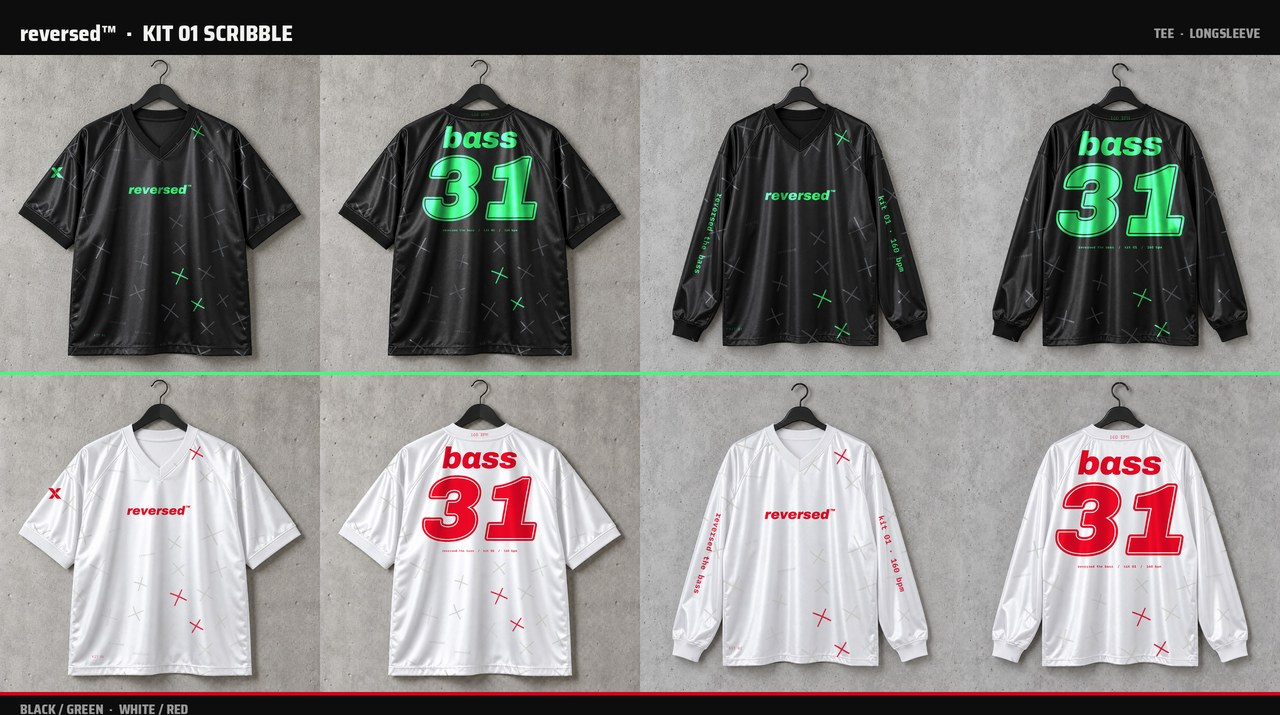
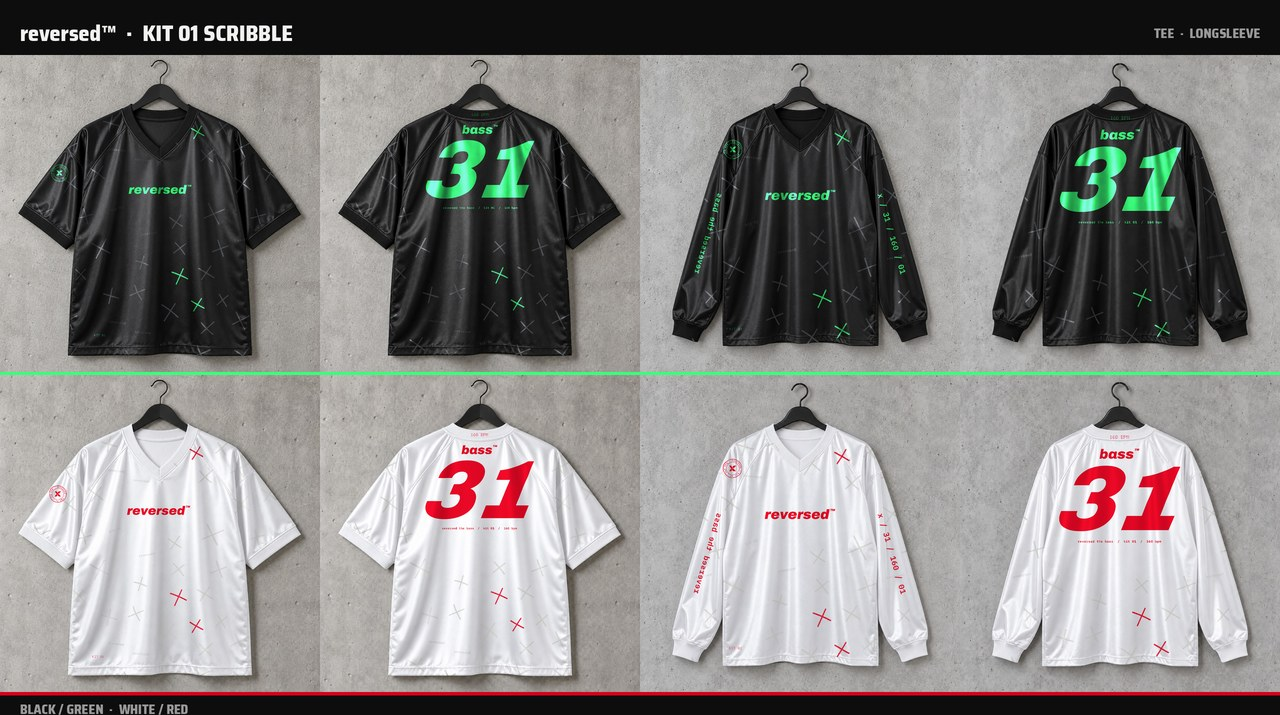
Rug: bass™ in exact het front-wordmark, schuiner solide 31, mouwbadge, abstracte mouwtekst longsleeve
Claude-Session: https://claude.ai/code/session_01Q3Vwcqa7EM4c5jqGE1QtzN

diff --git a/tools/set12.py b/tools/set12.py
@@ -1,0 +1,47 @@
+import sys, re, cairosvg, numpy as np, cv2
+S='/tmp/claude-0/-home-claude/e73f4353-fe82-5241-899e-a18cfe95ce4f/scratchpad'; OUT='/home/claude/merch/studio/art'
+sys.path.insert(0,S+'/scripts')
+from typo import *
+FN=S+'/npm/node_modules/@fontsource/'
+ARCH=FN+'archivo/files/archivo-latin-900-italic.woff2'
+ACC={'green':'#39FF7A','red':'#D6001C'}
+def save(name,d,w,h,extra=''):
+    for cw,hx in ACC.items():
+        sv=f'<svg xmlns="http://www.w3.org/2000/svg" width="{w:.1f}mm" height="{h:.1f}mm" viewBox="0 0 {w:.1f} {h:.1f}"><path d="{d}" fill="{hx}"{extra}/></svg>'
+        open(f'{OUT}/{name}_{cw}.svg','w').write(sv)
+        cairosvg.svg2png(bytestring=sv.encode(),write_to=f'{OUT}/{name}_{cw}.png',output_width=3000)
+# back name: exactly the front wordmark recipe (Archivo 900 italic, size 100, TM at 38) -> 'bass™'
+d,w=text_path('bass',ARCH,100,0,100); tm,tw=text_path('™',ARCH,38,w+4,52)
+save('k4_bass',d+' '+tm,round(w+tw+8),128)
+# number: same face, extra slant (skewX -14), solid, no outline
+d,w=text_path('31',ARCH,300,0,300,tracking=0.03)
+def ink_bbox(body,W,H):
+    sv=f'<svg xmlns="http://www.w3.org/2000/svg" width="{W}" height="{H}" viewBox="0 0 {W} {H}">{body}</svg>'
+    im=cv2.imdecode(np.frombuffer(cairosvg.svg2png(bytestring=sv.encode()),np.uint8),cv2.IMREAD_UNCHANGED)[:,:,3]
+    ys,xs=np.where(im>0); return xs.min(),xs.max(),ys.min(),ys.max()
+def save_g(name,body,W,H,pad=2):
+    x0,x1,y0,y1=ink_bbox(body.replace('FILL','#000'),W,H)
+    w,h=x1-x0+2*pad,y1-y0+2*pad
+    for cw,hx in ACC.items():
+        sv=f'<svg xmlns="http://www.w3.org/2000/svg" width="{w/4:.1f}mm" height="{h/4:.1f}mm" viewBox="{x0-pad} {y0-pad} {w} {h}">{body.replace("FILL",hx)}</svg>'
+        open(f'{OUT}/{name}_{cw}.svg','w').write(sv)
+        cairosvg.svg2png(bytestring=sv.encode(),write_to=f'{OUT}/{name}_{cw}.png',output_width=3000)
+d,w=text_path('31',ARCH,300,140,330,tracking=0.03)
+save_g('k4_num31',f'<g transform="skewX(-13)"><path d="{d}" fill="FILL"/></g>',int(w+320),380)
+# sleeve badge: ring of mono text around X monogram
+MONO6=FN+'ibm-plex-mono/files/ibm-plex-mono-latin-600-normal.woff2'
+xm=open(S+'/el3/x_monogram_v2.svg').read(); vb,xb=inner(xm)
+import math
+R=100; parts=[f'<circle cx="120" cy="120" r="{R+12}" fill="none" stroke="FILL" stroke-width="5"/>',f'<circle cx="120" cy="120" r="{R-22}" fill="none" stroke="FILL" stroke-width="3"/>']
+txt='REVERSED · KIT 01 · 160 BPM · '
+n=len(txt)
+for i,ch in enumerate(txt):
+    if ch==' ': continue
+    ang=-90+360*i/n
+    dch,cw=text_path(ch,MONO6,22,0,0,anchor='middle')
+    x=120+ (R-5)*math.cos(math.radians(ang)); y=120+(R-5)*math.sin(math.radians(ang))
+    parts.append(f'<g transform="translate({x:.2f},{y:.2f}) rotate({ang+90:.2f}) translate(0,8)"><path d="{dch}" fill="FILL"/></g>')
+xb2=re.sub(r'fill="[^"]*"','',xb)
+parts.append(f'<svg x="78" y="83" width="84" height="74" viewBox="{vb}"><g fill="FILL">{xb2}</g></svg>')
+save_g('k4_badge',''.join(parts),240,240)
+print('ok')

diff --git a/tools/pattern9.py b/tools/pattern9.py
@@ -130,15 +130,22 @@ for col,(tone,acc) in T.items():
     ph=f'blanks3/gl_{col}_front'; c=json.load(open(f'{ST}/{ph}.json')); W,H=c['w'],c['h']; ppc=c['pxPerCm']
     a=cv2.imread(f'{ST}/{ph}_map.png',cv2.IMREAD_UNCHANGED)[:,:,3]
     out=[]
-    for txt,side_ in (('reversed the bass','L'),('kit 01 · 160 bpm','R')):
+    for txt,side_ in (('reversed the bass','L'),('x / 31 / 160 / 01','R')):
         ys=np.arange(420,960,10); pts=[]
         for y in ys:
             xs=np.where(a[y]>128)[0]; pts.append((xs.min()+58) if side_=='L' else (xs.max()-58))
         k,b=np.polyfit(ys,pts,1)   # x = k*y + b
         yc=700; xc=k*yc+b; ang=math.degrees(math.atan2(1,k))
         d,w=text_path(txt,MONO6,2.4*ppc,0,0.36*2.4*ppc,anchor='middle',tracking=0.04)
-        out.append(f'<g transform="translate({xc:.1f},{yc:.1f}) rotate({ang:.2f})"><path d="{d}" fill="{acc}"/></g>')
+        mirror=' scale(-1,1)' if side_=='L' else ''
+        out.append(f'<g transform="translate({xc:.1f},{yc:.1f}) rotate({ang:.2f}){mirror}"><path d="{d}" fill="{acc}"/></g>')
     sv=f'<svg xmlns="http://www.w3.org/2000/svg" width="{W}" height="{H}" viewBox="0 0 {W} {H}">{"".join(out)}</svg>'
     png=cairosvg.svg2png(bytestring=sv.encode(),output_width=W)
     im=cv2.imdecode(np.frombuffer(png,np.uint8),cv2.IMREAD_UNCHANGED).astype(np.float32); im[:,:,3]*=a/255.
     cv2.imwrite(f'{ST}/art/gl_sleevetext_{col}.png',im.astype(np.uint8)); print('gl sleeve',col)
+
+for suf,hx in (('green','#39FF7A'),('red','#D6001C')):
+    d,w=text_path('reversed the bass',MONO6,25,0,20,tracking=0.04)
+    open(f'{ST}/art/sleeve2_right_{suf}.svg','w').write(f'<svg xmlns="http://www.w3.org/2000/svg" width="{w+2:.0f}mm" height="28mm" viewBox="0 0 {w+2:.0f} 28"><g transform="translate({w+1:.1f},0) scale(-1,1)"><path d="{d}" fill="{hx}"/></g></svg>')
+    d,w=text_path('x / 31 / 160 / 01',MONO6,25,0,20,tracking=0.04)
+    open(f'{ST}/art/sleeve2_left_{suf}.svg','w').write(f'<svg xmlns="http://www.w3.org/2000/svg" width="{w+2:.0f}mm" height="28mm" viewBox="0 0 {w+2:.0f} 28"><path d="{d}" fill="{hx}"/></svg>')
